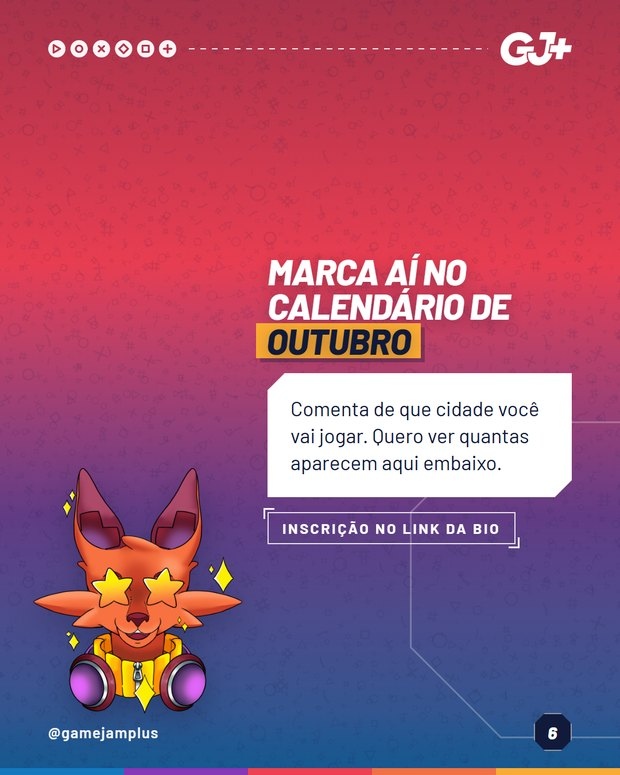
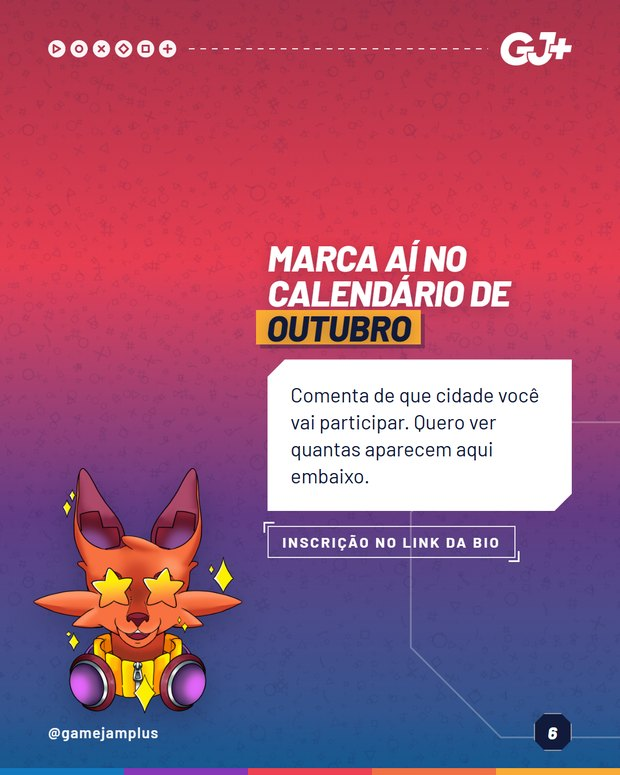
E14 ultimo slide: "jogar" vira "participar"
Pedido do dono, e eu tinha aplicado no post errado antes (E19, no motor
v9) por ter lido o print como sendo da arte antiga.

A troca conserta o sentido, nao so a palavra: numa jam ninguem joga, as
pessoas fazem jogo, entao "de que cidade voce vai jogar" lia como partida
em vez de participacao.

Trocado nos quatro lugares em que o mesmo texto vive:
  - decks_campo/e14.py, que e a arte no ar em PT
  - os 3 decks de origem em gjp-carrosseis/decks (pt/en/es)
  - as 3 legendas no legendas.js
    EN "taking part from", ES "vas a participar"

Cache-buster subido na galeria e no calendario.

Changed region(s): [[0.3984, 0.3097, 0.9194, 0.7432]]

diff --git a/index.html b/index.html
@@ -305,7 +305,7 @@ dialog img{width:min(92vw,620px);max-height:92dvh;object-fit:contain;border-radi
 <article class="c" data-cat="01-conteudos-gj" data-lang="PT" data-busca="e14 - as datas da 11ª edição gj+" id="c233">
   <header><div><span class="tagcat">GJ+</span><span class="taglang PT">PT</span><h2>E14 - As datas da 11ª edição</h2></div>
   <div class="nav"><button aria-label="Anterior" data-d="-1">&#8592;</button><button aria-label="Pr&#243;ximo" data-d="1">&#8594;</button><span class="cont">6</span></div></header>
-  <div class="strip"><figure><img src="img/01-conteudos-gj-pt-e14-as-datas-da-11a-edicao/slide_01.jpg?v=4" alt="E14 - As datas da 11ª edição 1" width="620" height="775" loading="lazy" decoding="async"><figcaption>01</figcaption></figure><figure><img src="img/01-conteudos-gj-pt-e14-as-datas-da-11a-edicao/slide_02.jpg?v=4" alt="E14 - As datas da 11ª edição 2" width="620" height="775" loading="lazy" decoding="async"><figcaption>02</figcaption></figure><figure><img src="img/01-conteudos-gj-pt-e14-as-datas-da-11a-edicao/slide_03.jpg?v=4" alt="E14 - As datas da 11ª edição 3" width="620" height="775" loading="lazy" decoding="async"><figcaption>03</figcaption></figure><figure><img src="img/01-conteudos-gj-pt-e14-as-datas-da-11a-edicao/slide_04.jpg?v=4" alt="E14 - As datas da 11ª edição 4" width="620" height="775" loading="lazy" decoding="async"><figcaption>04</figcaption></figure><figure><img src="img/01-conteudos-gj-pt-e14-as-datas-da-11a-edicao/slide_05.jpg?v=4" alt="E14 - As datas da 11ª edição 5" width="620" height="775" loading="lazy" decoding="async"><figcaption>05</figcaption></figure><figure><img src="img/01-conteudos-gj-pt-e14-as-datas-da-11a-edicao/slide_06.jpg?v=4" alt="E14 - As datas da 11ª edição 6" width="620" height="775" loading="lazy" decoding="async"><figcaption>06</figcaption></figure></div></article>
+  <div class="strip"><figure><img src="img/01-conteudos-gj-pt-e14-as-datas-da-11a-edicao/slide_01.jpg?v=5" alt="E14 - As datas da 11ª edição 1" width="620" height="775" loading="lazy" decoding="async"><figcaption>01</figcaption></figure><figure><img src="img/01-conteudos-gj-pt-e14-as-datas-da-11a-edicao/slide_02.jpg?v=5" alt="E14 - As datas da 11ª edição 2" width="620" height="775" loading="lazy" decoding="async"><figcaption>02</figcaption></figure><figure><img src="img/01-conteudos-gj-pt-e14-as-datas-da-11a-edicao/slide_03.jpg?v=5" alt="E14 - As datas da 11ª edição 3" width="620" height="775" loading="lazy" decoding="async"><figcaption>03</figcaption></figure><figure><img src="img/01-conteudos-gj-pt-e14-as-datas-da-11a-edicao/slide_04.jpg?v=5" alt="E14 - As datas da 11ª edição 4" width="620" height="775" loading="lazy" decoding="async"><figcaption>04</figcaption></figure><figure><img src="img/01-conteudos-gj-pt-e14-as-datas-da-11a-edicao/slide_05.jpg?v=5" alt="E14 - As datas da 11ª edição 5" width="620" height="775" loading="lazy" decoding="async"><figcaption>05</figcaption></figure><figure><img src="img/01-conteudos-gj-pt-e14-as-datas-da-11a-edicao/slide_06.jpg?v=5" alt="E14 - As datas da 11ª edição 6" width="620" height="775" loading="lazy" decoding="async"><figcaption>06</figcaption></figure></div></article>
 <article class="c" data-cat="01-conteudos-gj" data-lang="PT" data-busca="o24 - sede paga, e 100% fica com você gj+" id="c234">
   <header><div><span class="tagcat">GJ+</span><span class="taglang PT">PT</span><h2>O24 - Sede paga, e 100% fica com você</h2></div>
   <div class="nav"><button aria-label="Anterior" data-d="-1">&#8592;</button><button aria-label="Pr&#243;ximo" data-d="1">&#8594;</button><span class="cont">6</span></div></header>

diff --git a/legendas.js b/legendas.js
@@ -1324,7 +1324,7 @@ window.LEGENDAS = {
   "titulo": "E14 · The dates of the 11th edition",
   "p": [
     "October 16, 17 and 18, 2026. The 11th edition of GameJamPlus opens worldwide on the same weekend, at local venues in more than 50 countries. Friday starts with the global keynote revealing themes and categories to everyone at once, and by Sunday each team delivers a build and a pitch. After that the jam keeps going through incubation, semifinals, acceleration and an in-person Global Final.",
-    "Drop the city you will be playing from. Signing up is free and the 11th edition sign-up is in the link in bio."
+    "Drop the city you will be taking part from. Signing up is free and the 11th edition sign-up is in the link in bio."
   ],
   "tags": "#GameJamPlus #GameJam #GameDev #IndieDev #IndieGames #GameDevCommunity"
 },
@@ -1333,7 +1333,7 @@ window.LEGENDAS = {
   "titulo": "E14 · As datas da 11ª edição",
   "p": [
     "16, 17 e 18 de outubro de 2026. A 11ª edição da GameJamPlus abre no mundo inteiro no mesmo fim de semana, em sede local, em mais de 50 países. Sexta começa com a keynote global revelando temas e categorias pra todo mundo ao mesmo tempo, e no domingo cada time entrega build e pitch. Depois disso a jam segue por incubação, semifinais, aceleração e uma Final Global presencial.",
-    "Comenta de que cidade você vai jogar. A inscrição é gratuita e está no link da bio."
+    "Comenta de que cidade você vai participar. A inscrição é gratuita e está no link da bio."
   ],
   "tags": "#GameJamPlus #GameJam #GameDev #IndieDev #IndieGames #GameDevCommunity"
 },
@@ -1342,7 +1342,7 @@ window.LEGENDAS = {
   "titulo": "E14 · Las fechas de la 11ª edición",
   "p": [
     "16, 17 y 18 de octubre de 2026. La 11ª edición de GameJamPlus abre en todo el mundo el mismo fin de semana, en sede local, en más de 50 países. El viernes empieza con la keynote global que revela temas y categorías a todos a la vez, y el domingo cada equipo entrega build y pitch. Después de eso la jam sigue por incubación, semifinales, aceleración y una Final Global presencial.",
-    "Cuenta desde qué ciudad vas a jugar. La inscripción es gratis y está en el link de la bio."
+    "Cuenta desde qué ciudad vas a participar. La inscripción es gratis y está en el link de la bio."
   ],
   "tags": "#GameJamPlus #GameJam #GameDev #IndieDev #IndieGames #GameDevCommunity"
 },
